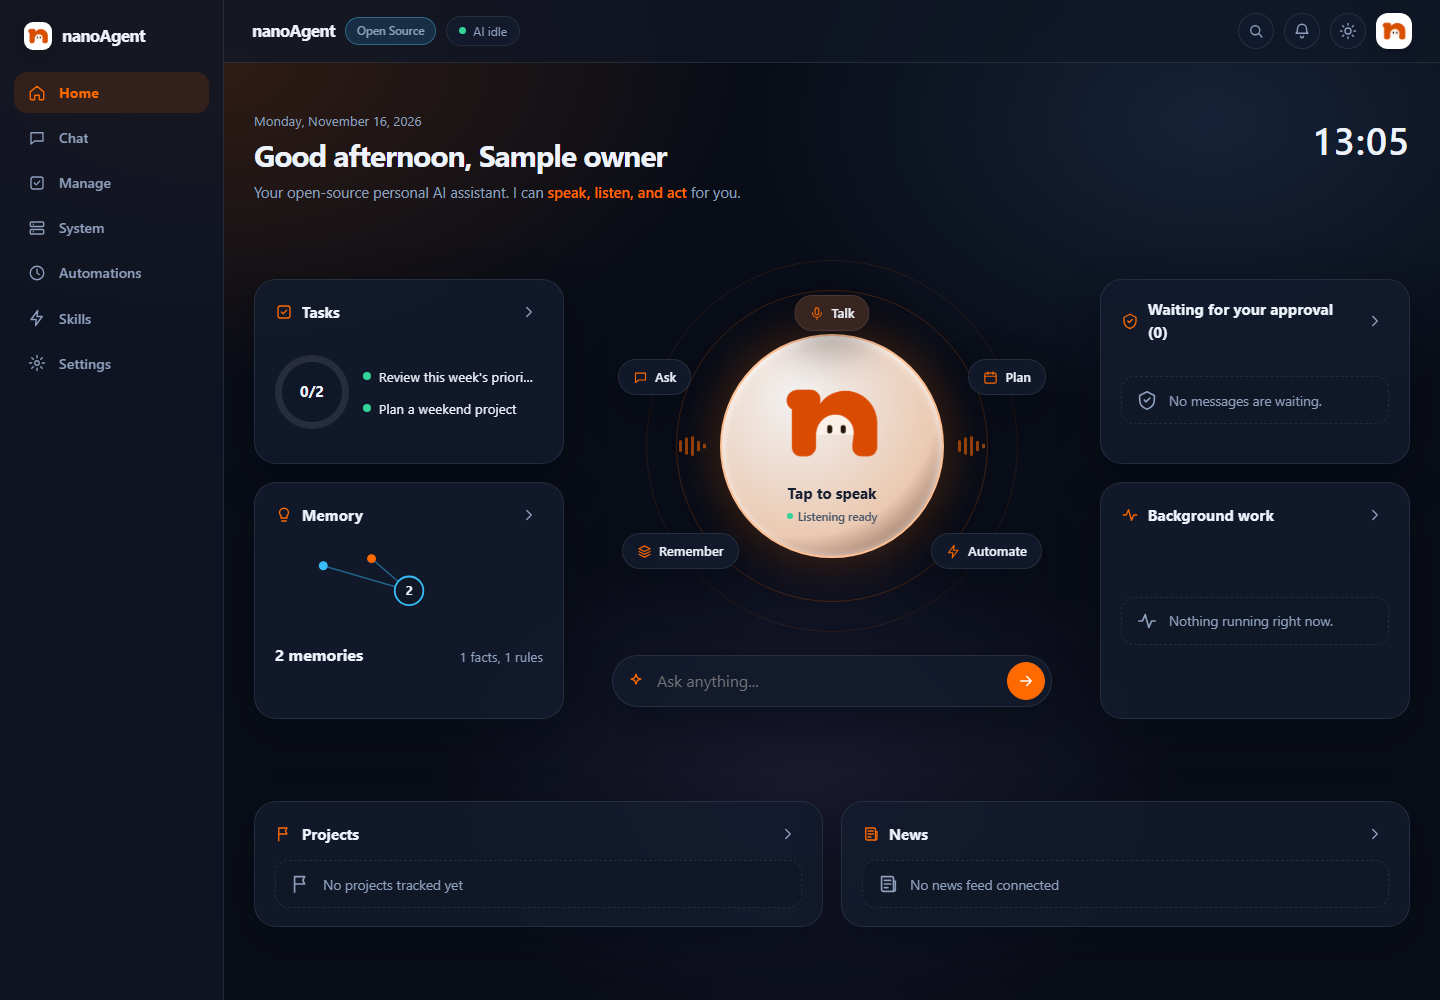
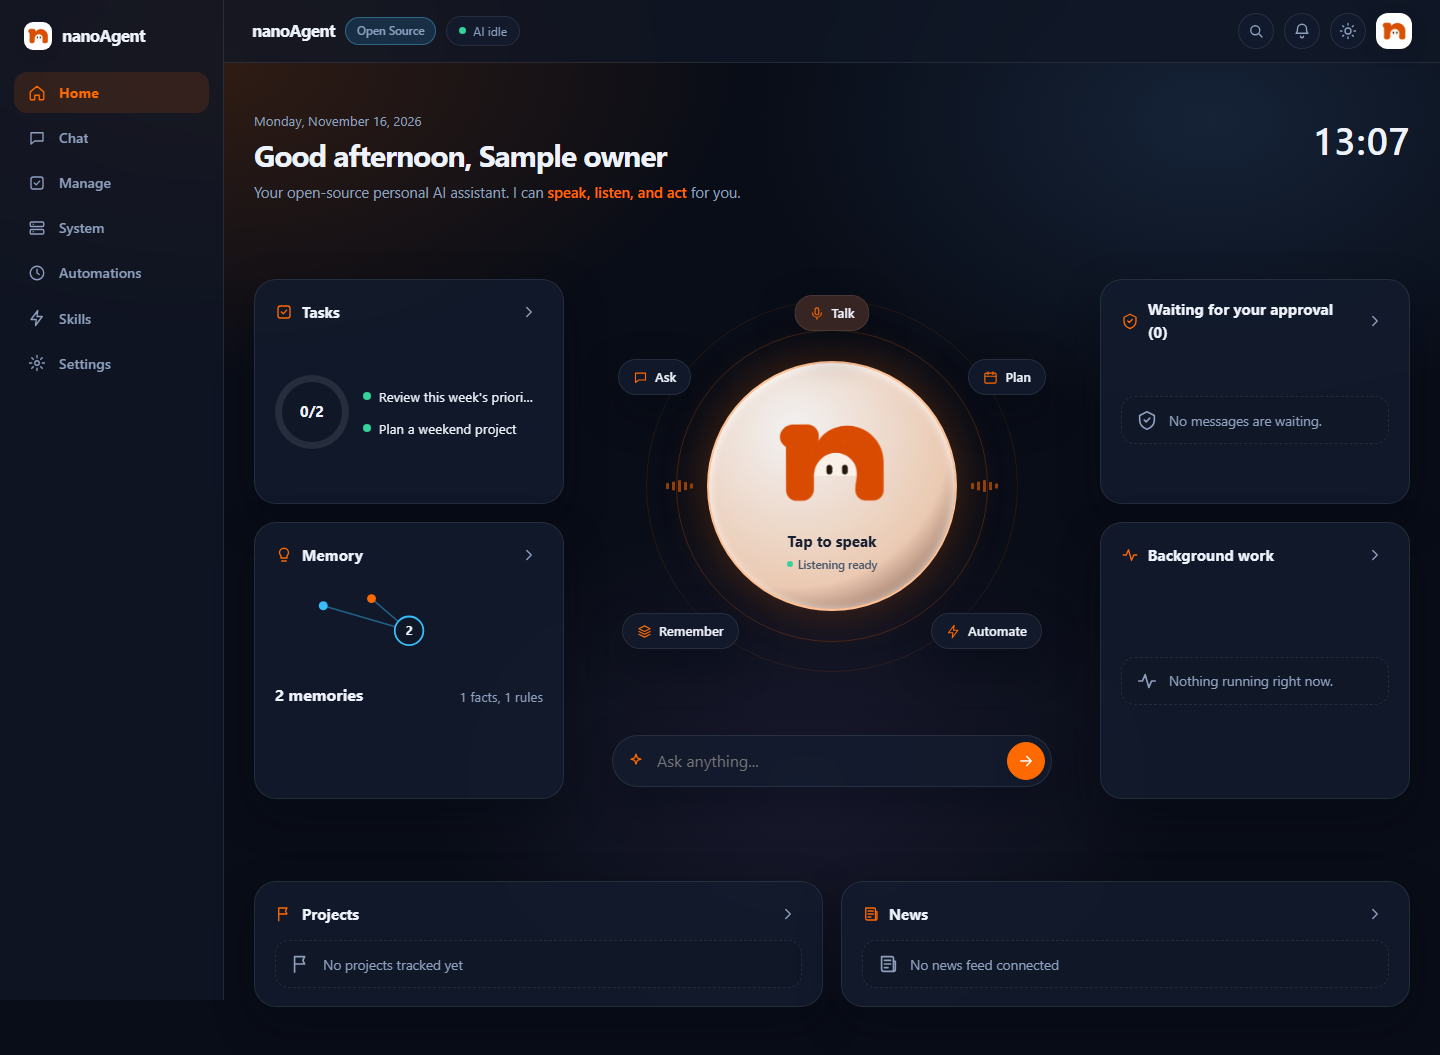
Scale mascot and home layout to reference

diff --git a/src/nanoagent/gateway/static/dashboard.css b/src/nanoagent/gateway/static/dashboard.css
@@ -574,7 +574,7 @@ pre {
   position: relative;
   width: 100%;
   max-width: 440px;
-  min-height: 310px;
+  min-height: 390px;
   display: flex;
   align-items: center;
   justify-content: center;
@@ -606,9 +606,9 @@ pre {
 
 .jv-orb {
   position: relative;
-  width: 224px;
-  height: 224px;
-  min-height: 224px;
+  width: 250px;
+  height: 250px;
+  min-height: 250px;
   padding: 16px;
   border-radius: 50%;
   border: 2px solid color-mix(in srgb, var(--accent) 42%, #ffffff);
@@ -629,7 +629,7 @@ pre {
 }
 
 .jv-orb:hover { transform: scale(1.025); }
-.assistant-mascot { position: relative; display: block; width: 126px; height: 112px; flex: none; }
+.assistant-mascot { position: relative; display: block; width: 144px; height: 128px; flex: none; }
 .assistant-logo { display: block; width: 100%; height: 100%; object-fit: contain; }
 .assistant-working { position: absolute; display: none; gap: 4px; right: -11px; top: 5px; }
 .assistant-working i { width: 5px; height: 5px; border-radius: 50%; background: #f76b25; }
